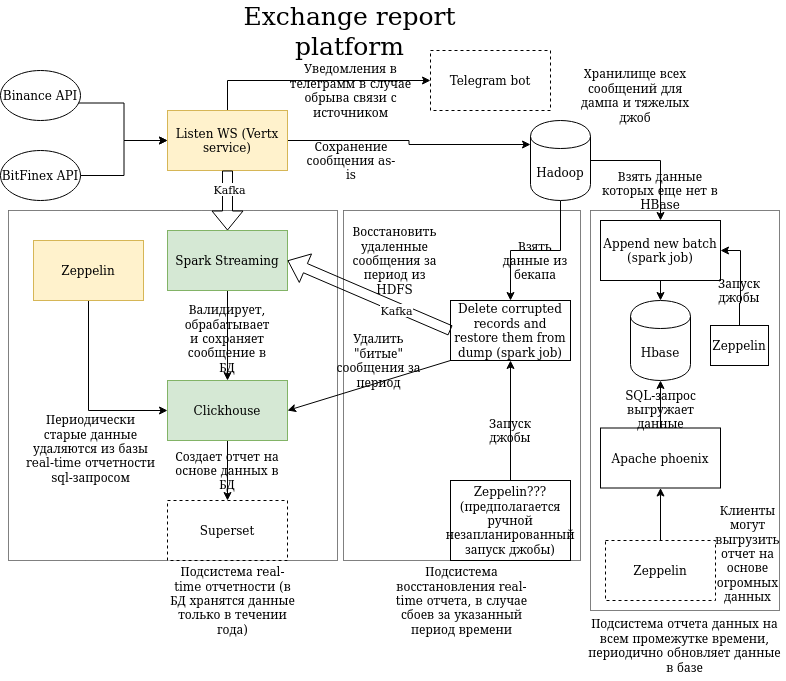
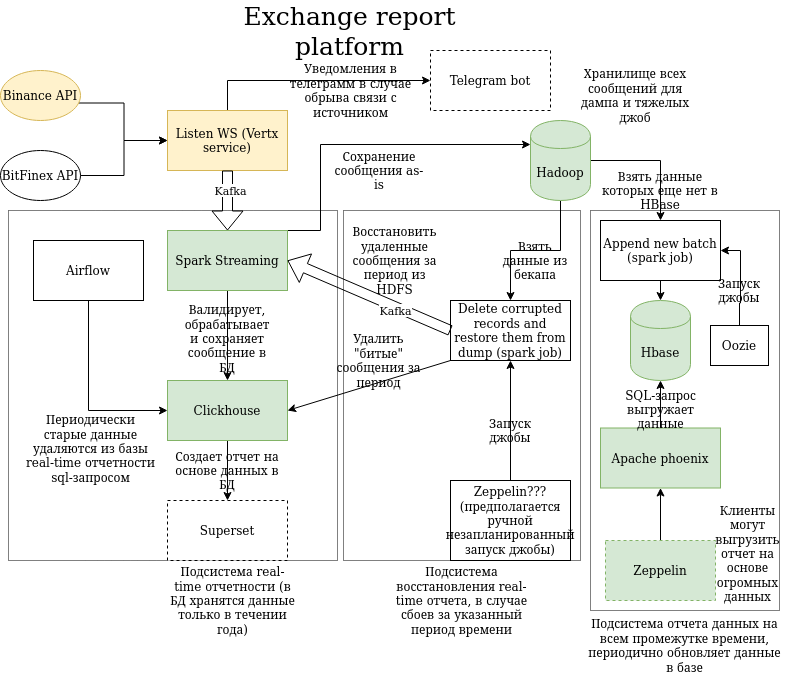
add docs

diff --git a/README.md b/README.md
@@ -1,8 +1,177 @@
 # Архитектура платформы
 
-Зеленый - костяк компонента готов
-Yellow - костяк готов частично или готов, но его необходимо переписать
+Зеленый - основа компонента готова (есть в проекте/установлен локально и описан в инструкции по развертыванию)
 
-Listen WS смотреть по [ссылке](https://github.com/dmitrychunin/exchange-spark) (в качестве временного решения использован и доработан под текущую задачу предыдущий проект)
+Listen WS смотреть по [ссылке](https://github.com/dmitrychunin/exchange-spark) (ветка feature-scala-streaming-into-hdfs, в качестве временного решения использован и доработан под текущую задачу предыдущий проект)
 
 ![Screenshot](https://github.com/dmitrychunin/exchange-platform/blob/master/pic/arch.png)
+
+# Инструкция по развертыванию
+
+* скачать текущий проект
+* установить локально docker и выполнить docker-compose up -d из корня проекта
+* создать базу binance и таблицу order скриптом ch_order_table_ddl.sql из любого клиента, поддерживающего jdbc
+* cкачать [проект](https://github.com/dmitrychunin/exchange-spark) и запустить main()
+* настроить локальное окружение (версии важны, подобрана совместимость):
+    java 1.8
+    scala 2.11.12
+    spark 2.4.4
+    hadoop 2.7.2
+    zeppelin 0.9.0
+    hbase 1.4.9
+    phoenix 4.15.0
+    
+## Инструкция по настройке локального окружения
+
+### Java 1.8
+* `sudo pacman -S jdk8-openjdk`
+* добавить в .bashrc `export JAVA_HOME=/usr/lib/jvm/java-8-openjdk`
+
+### Scala 2.11.12
+* скачать и распаковать scala tar
+* добавить в .bashrc `export SCALA_HOME=/home/dmitry/installations/scala-2.11.12 export PATH=$SCALA_HOME/bin:$PATH`
+
+### Hadoop 2.7.2
+* cкачать и распаковать hadoop tar
+* добавить в .bashrc `export HADOOP_HOME=/home/dmitry/installations/hadoop-2.7.2 export PATH=$HADOOP_HOME/bin:$HADOOP_HOME/sbin:$PATH`
+* добавить в etc/hadoop/core-site.xml:
+```xml
+<property>
+	<name>fs.defaultFS</name>
+	<value>hdfs://localhost:9000</value>
+</property>
+```
+* добавить в etc/hadoop/hdfs-site.xml
+```xml
+<property>
+	<name>dfs.replication</name>
+	<value>1</value>
+</property>
+```
+* Hadoop общается между нодами кластера (в том числе псевдо-кластера) по ssh, проверить: `ssh localhost`
+если ssh не настроен, то выполнить:
+```bash
+ssh-keygen -t rsa -P '' -f ~/.ssh/id_rsa
+cat ~/.ssh/id_rsa.pub >> ~/.ssh/authorized_keys
+chmod 0600 ~/.ssh/authorized_keys
+#to restart already configured sshd
+systemctl restart sshd
+#проверить еще раз
+ssh localhost
+```
+* добавить JAVA_HOME в hadoop-env.sh: `export JAVA_HOME=/usr/lib/jvm/java-8-openjdk`
+* обновить .bashrc: `source.bashrc`
+* стартовать namenode + datanode: `start-dfs.sh`
+* добавить в etc/hadoop/yarn-site.xml (yarn.nodemanager.pmem-check-enabled + yarn.nodemanager.vmem-check-enabled ???)
+```xml
+<property>
+	<name>yarn.nodemanager.aux-services</name>
+	<value>mapreduce_shuffle</value>
+</property>
+
+<property>
+    <name>yarn.nodemanager.pmem-check-enabled</name>
+    <value>false</value>
+</property>
+
+<property>
+    <name>yarn.nodemanager.vmem-check-enabled</name>
+    <value>false</value>
+</property>
+```
+* добавить в etc/hadoop/mapred-site.xml
+```xml
+<property>
+	<name>mapreduce.framework.name</name>
+	<value>yarn</value>
+</property>
+```
+* стартовать YARN кластер менеджер: `start-yarn.s`h
+* проверить процессы командой jps (должны появиться NodeManager, ResourceManager, SecondaryNameNode, DataNode, NameNode)
+* проверить namenode: [http://nds.name.domain:50090/](http://localhost:50070/)
+* проверить yarn [http://nds.name.domain:8088/](localhost:8088/)
+### Spark 2.4.4
+* скачать и распаковать spark tar
+* добавить в .bashrc `export SPARK_HOME=/home/dmitry/installations/spark-2.4.4-bin-hadoop2.7 export PATH=$SPARK_HOME/bin:$SPARK_HOME/sbin:$PATH`
+* добавить в spark-env.sh `export HADOOP_CONF_DIR=$HADOOP_HOME/etc/hadoop`
+* проверить: `spark-shell`
+* проверить примером из src:
+```bash
+spark-submit \
+--class org.apache.spark.examples.SimpleSkewedGroupByTest \
+--conf spark.ui.port=12901 \
+--master yarn \
+--deploy-mode cluster \
+--driver-memory 4g \
+--executor-memory 2g \
+--executor-cores 1 \
+--queue default \
+/home/dmitry/installations/spark-2.4.4-bin-hadoop2.7/examples/jars/spark-examples_2.11-2.4.4.jar
+```
+### HBase 1.4.9
+* скачать и распаковать hbase tar
+* добавить в .bashrc `export HBASE_HOME=/home/dmitry/installations/hbase-1.4.9 export PATH=HBASE_HOME/bin:$PATH`
+* через docker уже запущен zookeeper -> 
+    нужно указать хост и порт уже запущенного ZK
+    hbase.cluster.distributed true (???)
+    HBASE_MANAGES_ZK false
+* в conf/hbase-env.sh изменить значение HBASE_MANAGES_ZK на false    
+* добавить в $HBASE_HOME/conf/hbase-site.xml:  
+```xml
+<property>
+   <name>hbase.zookeeper.quorum</name>
+   <value>localhost</value>
+</property>
+<property>
+   <name>hbase.zookeeper.property.clientPort</name>
+   <value>2181</value>
+</property>
+<property>
+  <name>hbase.cluster.distributed</name>
+  <value>true</value>
+</property>
+<property>
+  <name>hbase.tmp.dir</name>
+  <value>./tmp</value>
+</property>
+<property>
+  <name>hbase.rootdir</name>
+  <value>hdfs://localhost:9000/hbase</value>
+</property>
+<property>
+  <name>hbase.unsafe.stream.capability.enforce</name>
+  <value>false</value>
+</property>
+```
+* обновить .bashrc: `source.bashrc`
+* стартовать hbase: `start-hbase.sh`
+* проверить процессы командой jps (должны быть запущены HMaster и HRegionServer, HQuorum быть не должно, он запущен через докер)
+* проверить hbase, создав таблицу, добавить одну строку и сделать select:
+```bash
+hbase shell
+status
+create 'newtbl', 'knowledge'
+put 'newtbl', 'r1', 'knowledge:sport', 'cricket'
+scan 'newtbl'
+list
+```
+* проверить в админке мастера новую таблицу [http://localhost:16010/master-status](http://localhost:16010/master-status)     
+
+### Apache Phoenix
+* скачать и распаковать hbase tar
+* добавить в .bashrc `export PHOENIX_HOME=/home/dmitry/installations/apache-phoenix-4.15.0-HBase-1.4-bin export PATH=$PATH:$PHOENIX_HOME/bin`
+* скопировать server jar в $HBASE_HOME/lib из $PHOENIX_HOME: `cp phoenix-4.15.0-HBase-1.4-server.jar ~/installations $HBASE_HOME/lib` 
+* рестарт HBase: `stop-hbase.sh && start-hbase.sh`
+* установить python2: `sudo pacman -S python2`
+* 
+* проверить (используемые файлы лежат в корне проекта):
+```bash
+python2 bin/sqlline.py
+!tables
+!quit
+python2 psql.py us_population.sql us_population.csv us_population_queries.sql
+```
+* проверить в админке мастера новую таблицу [http://localhost:16010/master-status](http://localhost:16010/master-status)     
+
+### Zeppelin
+## Troubleshooting
